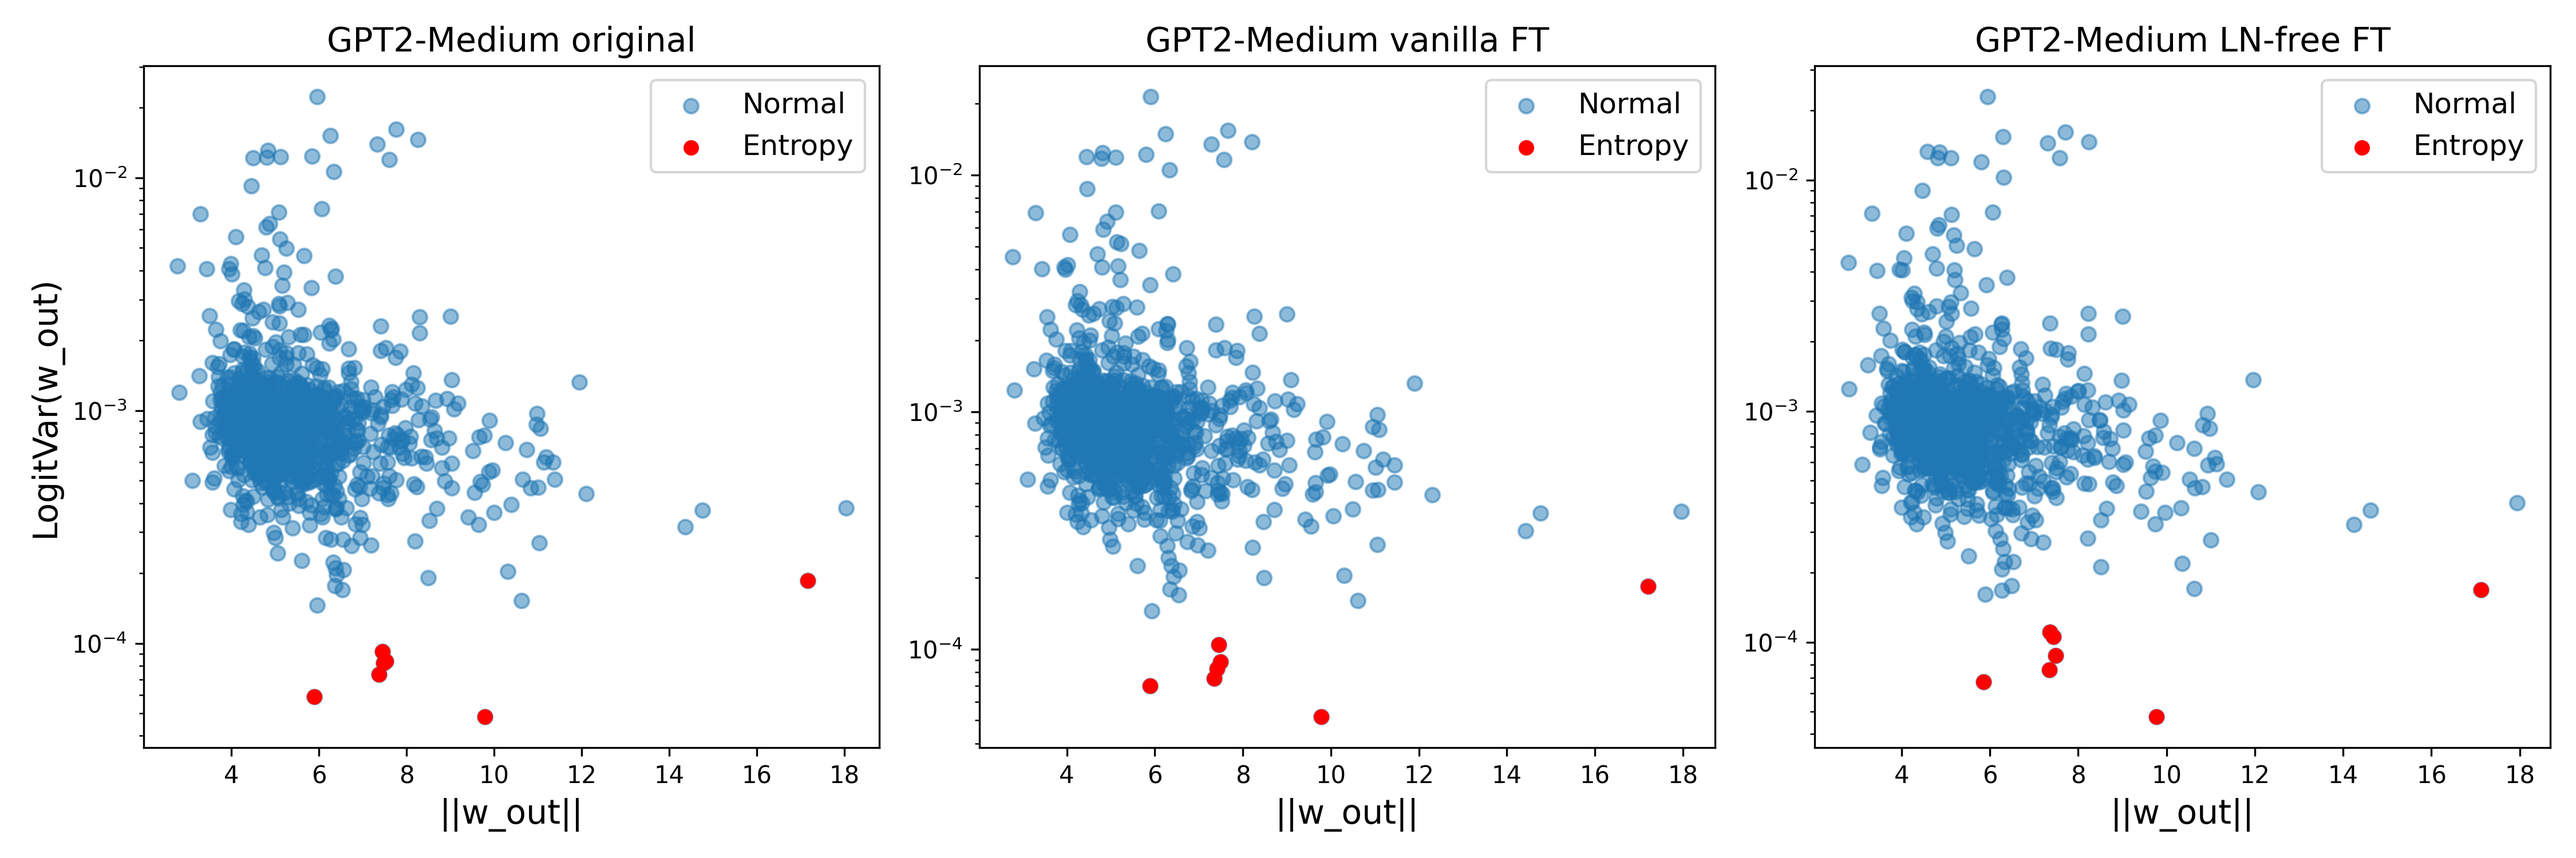
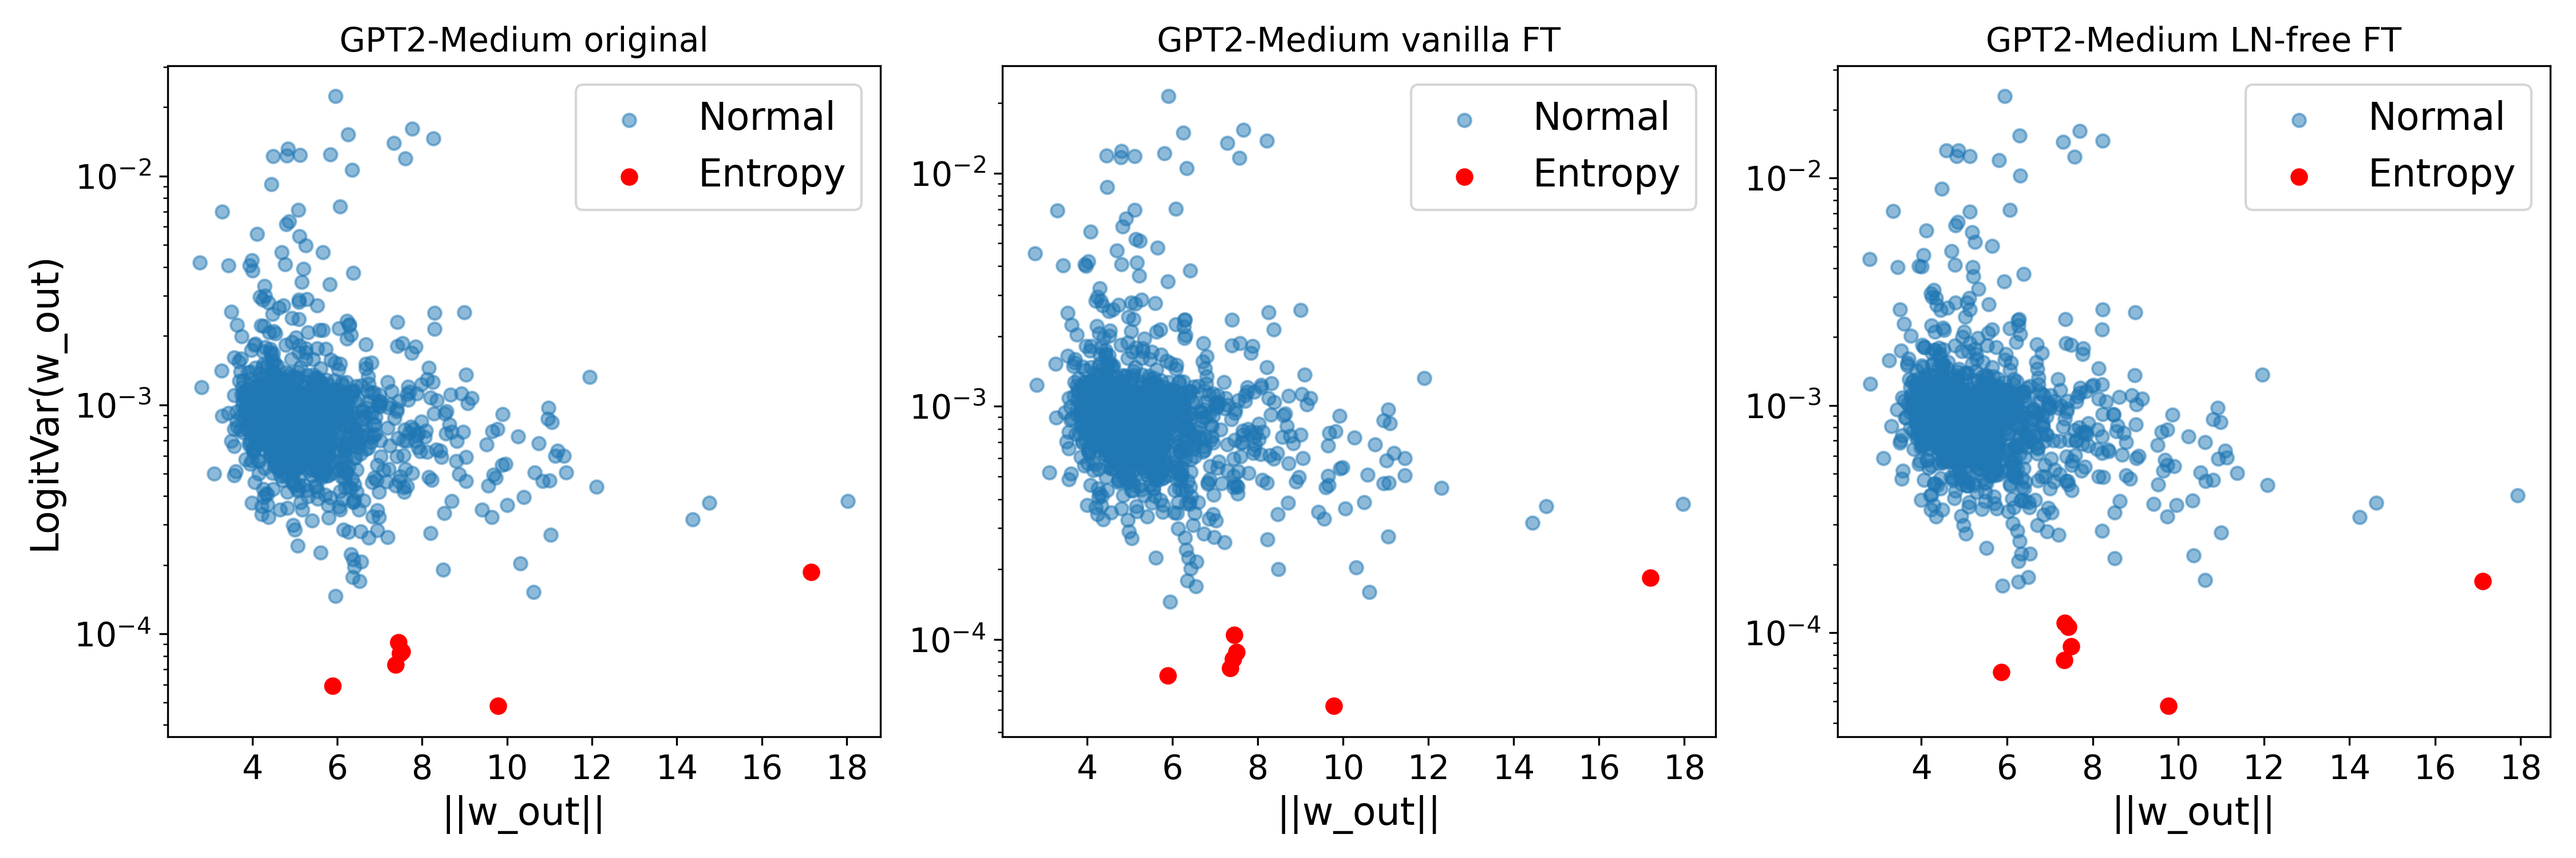
updated SVD

diff --git a/mech_interp/entropy_neurons/svd_comparison.py b/mech_interp/entropy_neurons/svd_comparison.py
@@ -73,6 +73,7 @@ for model_name, model in model_factory.models.items():
     # Find variance across entire vocab
     var = t.var(norm_Wu_Wout, axis=1).cpu().numpy()
     L2_Wout_array = t.squeeze(L2_Wout).cpu().numpy()
+    L2_Wu_array = t.squeeze(L2_Wu).cpu().numpy()
     
     # Find entropy neuron candidates (high norm, low variance)
     num_entropy_neurons = 100
@@ -84,6 +85,7 @@ for model_name, model in model_factory.models.items():
         'Wout': Wout,
         'Wu': Wu,
         'L2_Wout': L2_Wout_array,
+        'L2_Wu': L2_Wu_array,
         'var': var,
         'ratio': ratio,
         'top_indices': top_indices
@@ -92,10 +94,67 @@ for model_name, model in model_factory.models.items():
     # Calculate SVD for unembedding matrix
     U, S, Vt = t.svd(Wu)
     norm_S = S / t.max(S)
+    
+    # Calculate Cosine Sim of first entropy neuron with singular vectors
+    first_entropy_neuron_idx = top_indices[0]
+    Wout_idx = Wout[first_entropy_neuron_idx, :]
+    dots = t.matmul(U.T, Wout_idx)
+    # Calculate norms
+    wout_norm = t.norm(Wout_idx)
+    u_norms = t.norm(U, dim=0)
+    # Calculate cosine similarity
+    cos_sim = (dots / (wout_norm * u_norms)).abs().cpu().numpy()
+    squared_cos_sim = cos_sim ** 2
+    cum_squared_cos_sim = np.cumsum(squared_cos_sim)
+ 
     results[model_name]['norm_S'] = norm_S
     results[model_name]['U'] = U
     results[model_name]['S'] = S
     results[model_name]['Vt'] = Vt
+    results[model_name]['cos_sim'] = cos_sim
+    results[model_name]['squared_cos_sim'] = squared_cos_sim
+    results[model_name]['cum_squared_cos_sim'] = cum_squared_cos_sim
+    
+# %%
+# Combined plot with all models' W_out norms on a single histogram
+plt.figure(figsize=(10, 6))
+
+for model_name, model_results in results.items():
+    L2_Wout = model_results['L2_Wout']
+    plt.hist(L2_Wout, bins=50, 
+             label=f'{model_labels[model_name]}',
+             color=model_colors[model_name],
+             histtype='step', linewidth=3)
+plt.xticks(fontsize=14)
+plt.yticks(fontsize=14)
+plt.xlabel('||w_out|| Norm', fontsize=16)
+plt.ylabel('Frequency', fontsize=16)
+plt.legend(loc='upper right', fontsize=16)
+plt.tight_layout()
+plt.savefig(f'{save_path}/all_models_Wout_norm.png', dpi=300)
+plt.show()
+
+
+# %%
+# Combined plot with all models' W_u norms on a single histogram
+plt.figure(figsize=(10, 6))
+
+for model_name, model_results in results.items():
+    L2_Wu = model_results['L2_Wu']
+    L2_Wu_normalized = (L2_Wu - np.min(L2_Wu)) / (np.max(L2_Wu) - np.min(L2_Wu))
+    plt.hist(L2_Wu_normalized, bins=60, 
+             label=f'{model_labels[model_name]}',
+             color=model_colors[model_name],
+             histtype='step', linewidth=3)
+
+plt.xticks(fontsize=14)
+plt.yticks(fontsize=14)
+plt.xlabel('Normalised ||W_u|| Norm', fontsize=16)
+plt.ylabel('Frequency', fontsize=16)
+plt.legend(loc='upper right', fontsize=16)
+plt.tight_layout()
+plt.savefig(f'{save_path}/all_models_Wu_norm.png', dpi=300)
+plt.show()
 
 # %%
 # Create individual plots for each model's normal vs entropy neurons
@@ -109,18 +168,20 @@ for i, (model_name, model_results) in enumerate(results.items()):
     top_indices = model_results['top_indices']
     
     # Plot normal neurons
-    plt.scatter(L2_Wout, var, alpha=0.5, label='Normal')
+    plt.scatter(L2_Wout, var, alpha=0.5, label='Normal', s=30)
     
     # Plot top entropy neurons for this model
     plt.scatter(L2_Wout[top_indices[:num_neurons]], var[top_indices[:num_neurons]], 
-                color='red', s=30, label='Entropy')
+                color='red', s=40, label='Entropy')
     
-    plt.xlabel('||w_out||', fontsize=14)
+    plt.xlabel('||w_out||', fontsize=16)
+    plt.xticks(fontsize=14)
+    plt.yticks(fontsize=14)
     if i == 0:
-        plt.ylabel('LogitVar(w_out)', fontsize=14)
+        plt.ylabel('LogitVar(w_out)', fontsize=16)
     plt.yscale('log')
     plt.title(f'{model_labels[model_name]}', fontsize=14)
-    plt.legend(loc='upper right', fontsize=12)
+    plt.legend(loc='upper right', fontsize=16)
 
 plt.tight_layout()
 plt.savefig(f'{save_path}/all_models_neurons.png', dpi=300)
@@ -130,24 +191,30 @@ plt.show()
 # Create SVD plots with all models on the same plot - two columns: full and zoomed
 plt.figure(figsize=(8, 8))
 
-# Plot 1: Full SVD for all models
+# Zoomed SVD for all models
 plt.subplot(1, 1, 1)
 
 for model_name, model_results in results.items():
-    S = model_results['S']
-    norm_S = S / t.sum(S)
+    norm_S = model_results['norm_S']
     x_vals = t.arange(norm_S.shape[0]).cpu().numpy()
     
+    # Plot lower singular values to visualise nullspace
     plt.plot(x_vals, norm_S.cpu().numpy(), 
-             lw=2, label=f'{model_labels[model_name]}', 
+             lw=3, label=f'{model_labels[model_name]}', 
              color=model_colors[model_name])
+    
+    # Plot entropy neuron overlap with singular vectors
+    overlaps = results[model_name]['cos_sim']
+    plt.plot(x_vals, overlaps, color=model_colors[model_name], linestyle='--', lw=2)
 
-plt.ylim(0, 0.001)
-plt.xlim(residual_stream_dim - 19, residual_stream_dim - 1)
-plt.ylabel('Normalised Singular Values', fontsize=14)
-plt.xlabel('Singular Vector Index', fontsize=14)
+plt.xticks(fontsize=14)
+plt.yticks(fontsize=14)
+plt.xlim(residual_stream_dim - 50, residual_stream_dim - 1)
+plt.ylim(0, 0.2)
+plt.ylabel('Normalised Singular Values', fontsize=16)
+plt.xlabel('Singular Vector Index', fontsize=16)
 #plt.title('SVD Comparison - Nullspace')
-plt.legend(loc='upper right', fontsize=12)
+plt.legend(loc='upper right', fontsize=16)
 
 plt.tight_layout()
 plt.savefig(f'{save_path}/all_models_SVD_comparison.png', dpi=300)

diff --git a/mech_interp/entropy_neurons/ablate_all_models.py b/mech_interp/entropy_neurons/ablate_all_models.py
@@ -375,7 +375,7 @@ def plot_model_comparison(model_results, model_type='small', save_path=None, met
     }
     
     # Set up figure
-    fig, ax = plt.subplots(figsize=(14, 8))
+    fig, ax = plt.subplots(figsize=(10, 8))
     
     # Define width of bars and positions
     model_names = list(model_results.keys())
@@ -444,7 +444,7 @@ def plot_model_comparison(model_results, model_type='small', save_path=None, met
               label=model_labels[model_name])
         for model_name in model_names
     ]
-    ax.legend(handles=legend_elements, loc='upper right')
+    ax.legend(handles=legend_elements, loc='upper left')
     
     fig.tight_layout()
     if save_path:
@@ -501,10 +501,10 @@ def print_ablation_summary(model_results):
    
     
 if __name__ == "__main__":
-    #entropy_neuron_indices = [584, 2123, 2870]  # Small
-    entropy_neuron_indices = [3144, 1083, 1108] # Medium
+    entropy_neuron_indices = [584, 2123, 2870]  # Small
+    #entropy_neuron_indices = [3144, 1083, 1108] # Medium
     models = ['baseline', 'finetuned', 'noLN']
-    model_size = 'medium'
+    model_size = 'small'
     save_path = f'figures/{model_size}'
     os.makedirs(save_path, exist_ok=True)
 
